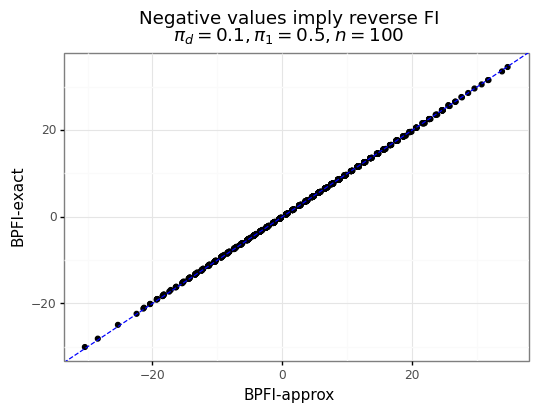
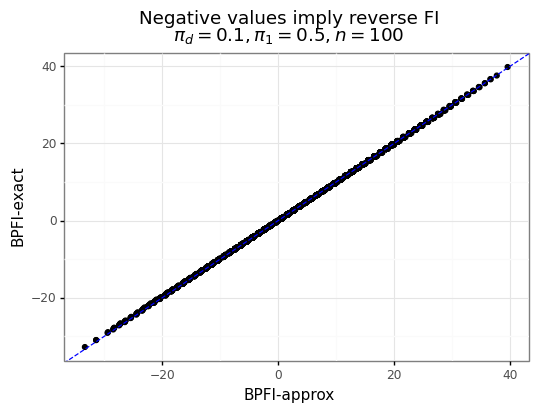
addig post-hoc power calculations

diff --git a/_rmd/extra_FI/explore_binom.py b/_rmd/extra_FI/explore_binom.py
@@ -2,6 +2,12 @@ import os
 import numpy as np
 import pandas as pd
 import plotnine as pn
+from plotnine.geoms.geom_abline import geom_abline
+from plotnine.geoms.geom_density import geom_density
+from plotnine.geoms.geom_histogram import geom_histogram
+from plotnine.geoms.geom_linerange import geom_linerange
+from plotnine.labels import ggtitle
+from plotnine.scales.scale_xy import scale_x_log10, scale_y_continuous
 from scipy import stats
 from scipy.stats import norm
 from funs_explore import BPFI, gg_save
@@ -13,7 +19,7 @@ assert os.path.exists(dir_figures), 'no figures folder found'
 ######################################
 # ---- (1) CHECK FI CALCULATION ---- #
 
-n = 100000
+n = 200
 pi2 = 0.6
 pi1 = 0.5
 alpha = 0.05
@@ -24,7 +30,6 @@ sim1.fi()
 sim1.mu_f
 sim1.df_fi.query('reject==1').mean()
 
-
 gtit='Negative values imply reverse FI\n$\\pi_d=0.1,\\pi_1=0.5,n=100$'
 gg_fi_approx = (pn.ggplot(sim1.df_fi,pn.aes(x='fia',y='fi')) + 
     pn.theme_bw() + pn.labs(x='BPFI-approx',y='BPFI-exact') + 
@@ -33,20 +38,17 @@ gg_fi_approx = (pn.ggplot(sim1.df_fi,pn.aes(x='fia',y='fi')) +
 gg_save('gg_fi_approx.png',dir_figures,gg_fi_approx,6,4)
 
 
-
-
-
-###########################################
-# ---- (1) ESTIMATE QUALITY OF POWER ---- #
+#################################
+# ---- (2) RUM SIMULATIONS ---- #
 
 alpha = 0.05
-nsim = 1000000
-n_seq = [25, 100, 500, 2000]
-pi1_seq = [0.05, 0.25, 0.5]
-pid_seq = [0, 0.01, 0.05, 0.1]
+nsim = 250000
+n_seq = [100, 250, 500, 1000]
+pi1_seq = [0.15, 0.30, 0.45]
+pid_seq = [0, 0.01, 0.03, 0.05]
 n_perm = len(n_seq) * len(pi1_seq) * len(pid_seq)
 
-holder = []
+holder_power, holder_fi, holder_invert, holder_dist = [], [], [], []
 jj = 0
 for n in n_seq:
     for pi1 in pi1_seq:
@@ -54,19 +56,88 @@ for n in n_seq:
             jj += 1
             print('Iteration %i of %i' % (jj, n_perm))
             pi2 = pi1 + pid
-            tmp_sim = binom_experiment(n=n, pi1=pi1, pi2=pi2, alpha=alpha)
-            tmp_sim.dgp(nsamp=nsim, seed=jj)
-            power_norm = tmp_sim.reject.mean()
-            power_t = np.mean(1 - stats.t(df=2*n).cdf(tmp_sim.z) < alpha)
-            tmp_slice = pd.DataFrame({'n':n, 'pi1':pi1, 'pid':pid, 'power_est':tmp_sim.power, 'power_norm':power_norm, 'power_t':power_t}, index=[jj])
-            holder.append(tmp_slice)
+            sim_jj = BPFI(n=n, pi1=pi1, pi2=pi2, alpha=alpha)
+            sim_jj.dgp(nsamp=nsim, seed=jj)
+            sim_jj.fi()
+            # (i) Compare predicted to actual power
+            emp_power = sim_jj.reject.mean()
+            est_power = sim_jj.power
+            tmp_power = pd.DataFrame({'msr':'power','n':n, 'pi1':pi1, 'pid':pid, 'est':est_power, 'emp':emp_power}, index=[jj])
+            # (ii) Compare average FI to expected
+            pfi_jj = sim_jj.df_fi.query('reject==1')['fia'].values
+            emp_fi = pfi_jj.mean()
+            est_fi = sim_jj.mu_f
+            tmp_fi = pd.DataFrame({'msr':'FI','n':n, 'pi1':pi1, 'pid':pid, 'est':est_fi, 'emp':emp_fi}, index=[jj])
+            # (iii) Estimate power from FI
+            tmp_invert = sim_jj.df_fi['power'].quantile([alpha/2,0.5,1-alpha/2]).reset_index()
+            tmp_invert['index'] = tmp_invert['index'].map({alpha/2:'lb',0.5:'med',1-alpha/2:'ub'})
+            tmp_invert = tmp_invert.assign(idx=jj).pivot('idx','index','power').reset_index(None,drop=True)
+            tmp_invert = tmp_invert.assign(n=n,pi1=pi1,pid=pid)
+            # (iv) Save representative sample of FI values
+            pfi_jj_hat = pd.Series(pfi_jj).sample(n=2500,replace=True,random_state=jj).values
+            tmp_pfi = pd.DataFrame({'n':n, 'pi1':pi1, 'pid':pid, 'pfi':pfi_jj_hat})
+
+            # Save
+            holder_power.append(tmp_power)
+            holder_fi.append(tmp_fi)
+            holder_invert.append(tmp_invert)
+            holder_dist.append(tmp_pfi)
 # Merge and plot            
-res_power = pd.concat(holder)
-res_power
+res_power = pd.concat(holder_power)
+res_fi_mu = pd.concat(holder_fi)
+res_invert = pd.concat(holder_invert).reset_index(None,drop=True)
+res_invert = res_invert.merge(res_power)
+res_pfi = pd.concat(holder_dist).reset_index(None, drop=True)
+
+#########################
+# ---- (3) FIGURES ---- #
+
+# (i) Power
+gg_power = (pn.ggplot(res_power,pn.aes(x='emp',y='est',color='pid.astype(str)')) + 
+    pn.theme_bw() + pn.geom_point(size=3) + 
+    pn.ggtitle('Null hypothesis rejection') +
+    pn.labs(x='Actual',y='Expected') + 
+    pn.facet_grid('n~pi1',labeller=pn.label_both) + 
+    pn.geom_abline(slope=1,intercept=0,linetype='--') + 
+    pn.scale_y_continuous(limits=[0,1]) + 
+    pn.scale_x_continuous(limits=[0,1]) + 
+    pn.scale_color_discrete(name='$\\pi_d$'))
+gg_save('gg_power.png',dir_figures,gg_power,8,6)
+
+# (ii) Average fragility index
+gg_fi_mu = (pn.ggplot(res_fi_mu,pn.aes(x='emp',y='est',color='pid.astype(str)')) + 
+    pn.theme_bw() + pn.geom_point(size=3) + 
+    pn.ggtitle('Positive fragility index (pFI)') + 
+    pn.labs(x='Actual',y='Expected') + 
+    pn.facet_grid('n~pi1',labeller=pn.label_both) + 
+    pn.geom_abline(slope=1,intercept=0,linetype='--') + 
+    pn.scale_color_discrete(name='$\\pi_d$'))
+gg_save('gg_fi_mu.png',dir_figures,gg_fi_mu,8,6)
+
+# (iii) Post-hoc power
+gg_posthoc = (pn.ggplot(res_invert,pn.aes(x='emp',y='med',color='pid.astype(str)')) + 
+    pn.theme_bw() + pn.geom_point(size=2) + 
+    pn.geom_linerange(pn.aes(ymin='lb',ymax='ub')) + 
+    pn.ggtitle('post-hoc pFI to estimate power\nLine range shows empirical 95% CI') +
+    pn.labs(x='Actual',y='Esimated') + 
+    pn.facet_grid('n~pi1',labeller=pn.label_both) + 
+    pn.geom_abline(slope=1,intercept=0,linetype='--') + 
+    pn.scale_y_continuous(limits=[0,1]) + 
+    pn.scale_x_continuous(limits=[0,1]) + 
+    pn.scale_color_discrete(name='$\\pi_d$'))
+gg_save('gg_posthoc.png',dir_figures,gg_posthoc,8,6)
+
+# (iv) Post-hoc fragility index
+gg_pfi = (pn.ggplot(res_pfi,pn.aes(x='np.log(pfi+1)',fill='pid.astype(str)')) + 
+    pn.theme_bw() + 
+    # pn.geom_histogram(color='black',alpha=0.5,position='identity',bins=25) + 
+    pn.geom_density(color='black',alpha=0.5) + 
+    pn.ggtitle('Distribution of pFIs') +
+    pn.labs(x='log(pFI+1)') + 
+    pn.facet_grid('n~pi1',labeller=pn.label_both,scales='free') + 
+    # pn.scale_x_log10() + 
+    pn.scale_fill_discrete(name='$\\pi_d$'))
+gg_save('gg_pfi.png',dir_figures,gg_pfi,10,8)
 
 
-
-
-
-
-
+print('~~~ End of explore_binom.py ~~~')

diff --git a/_rmd/extra_FI/funs_explore.py b/_rmd/extra_FI/funs_explore.py
@@ -76,8 +76,20 @@ class BPFI():
         c = self.s1*(2*self.n*self.s1+self.t_a**2*(self.s1-2*self.n))
         s2hat1 = (-b + np.sqrt(b**2 - 4*a*c))/(2*a)
         fi1 = self.s2 - s2hat1
+
         # Calculation FI(approx)
         s2hat2 = (self.s1 + np.sqrt(2*self.n*self.pi0_hat*(1-self.pi0_hat))*self.t_a)
         fi2 = self.s2 - s2hat2
-        self.df_fi = pd.DataFrame({'reject':self.reject,'fi':fi1, 'fia':fi2})
+        
+        # Calculation of power
+        pi1hat = self.s1/self.n
+        pi2hat = self.s2/self.n
+        se_alt = np.sqrt(pi1hat*(1-pi1hat) + pi2hat*(1-pi2hat))
+        power_mu = norm.cdf(fi2/(np.sqrt(self.n*se_alt)))
+        
+        # Store
+        self.df_fi = pd.DataFrame({'reject':self.reject,'power':power_mu,'fi':fi1, 'fia':fi2})
+        
+        
+
 
